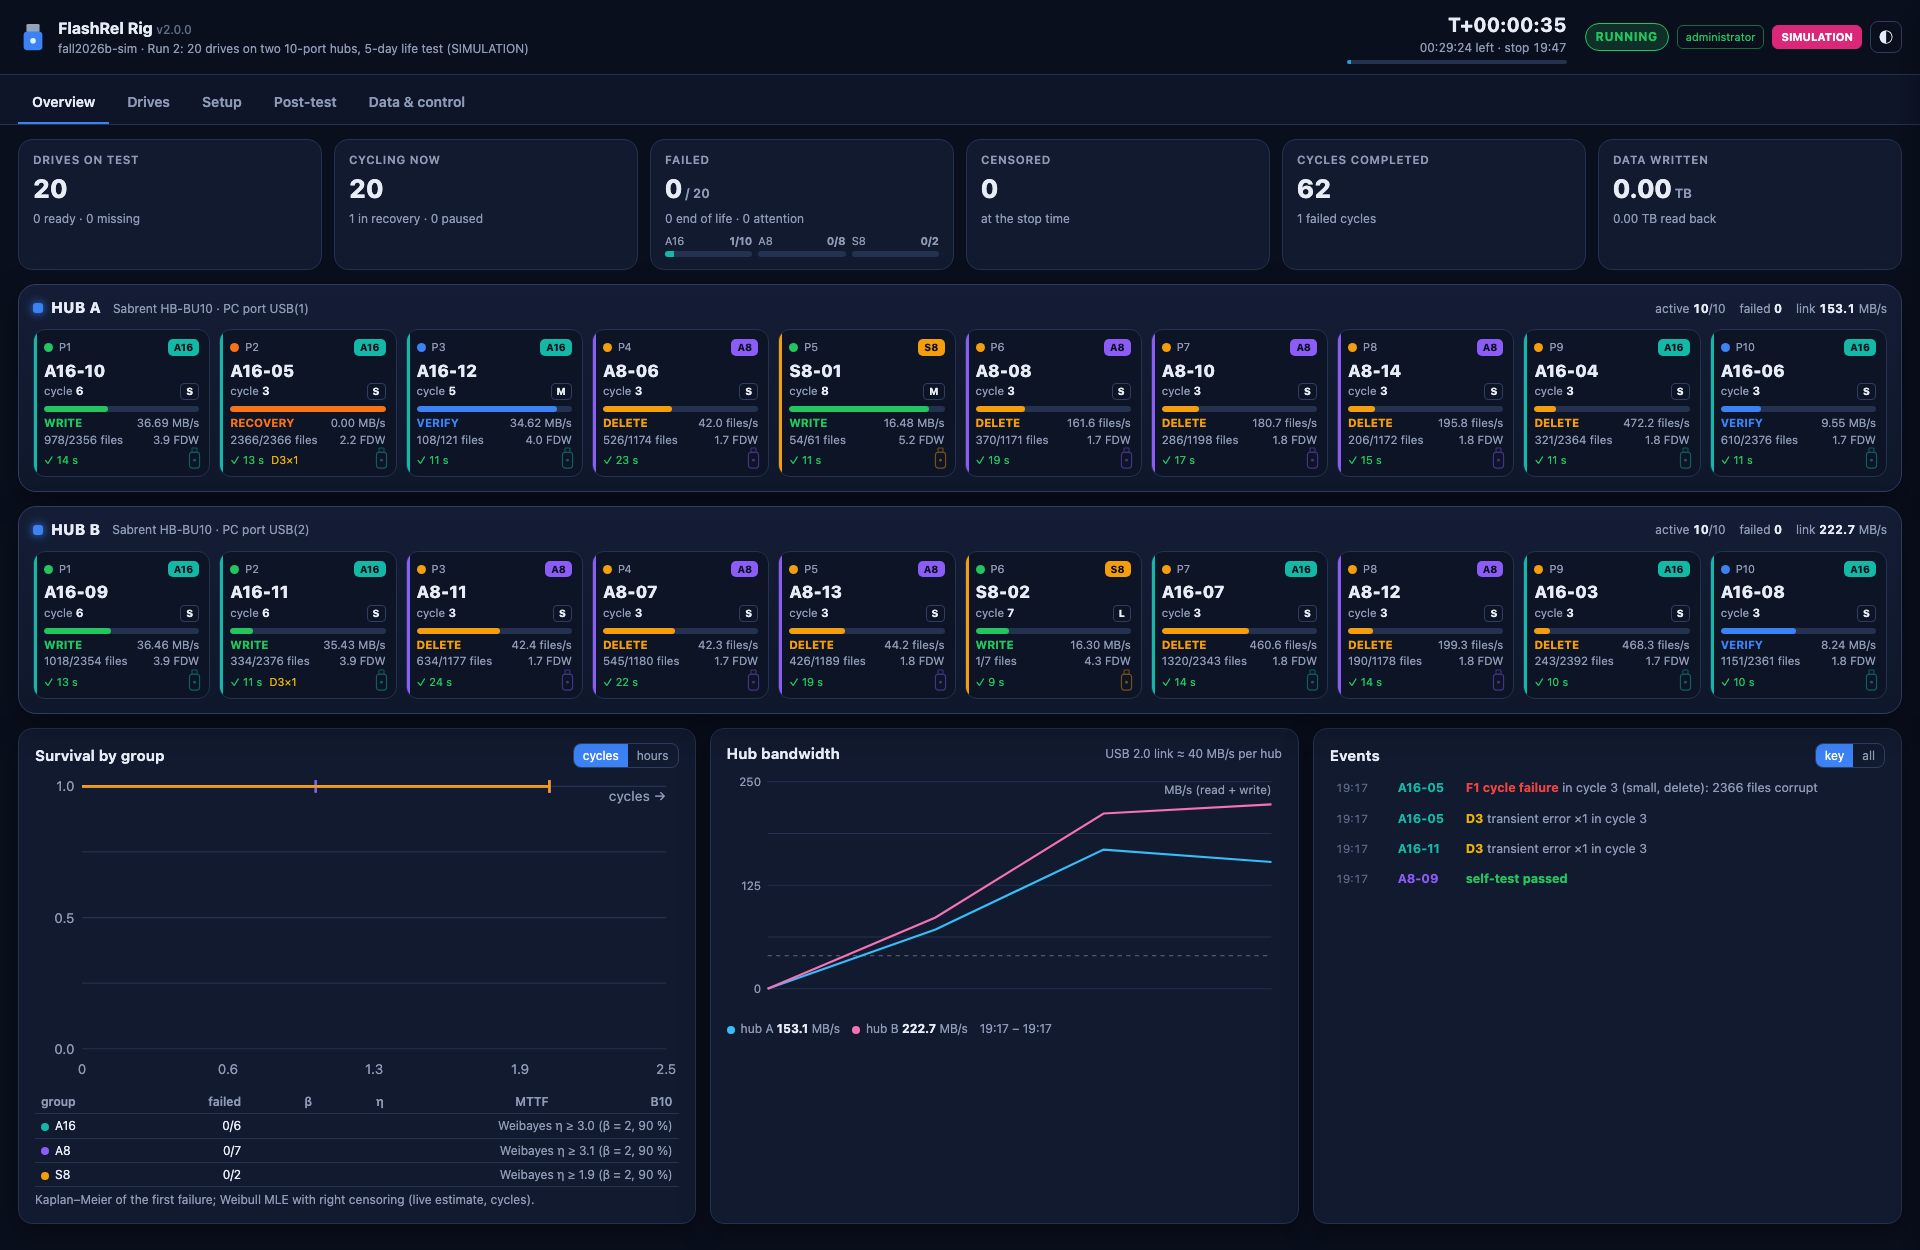
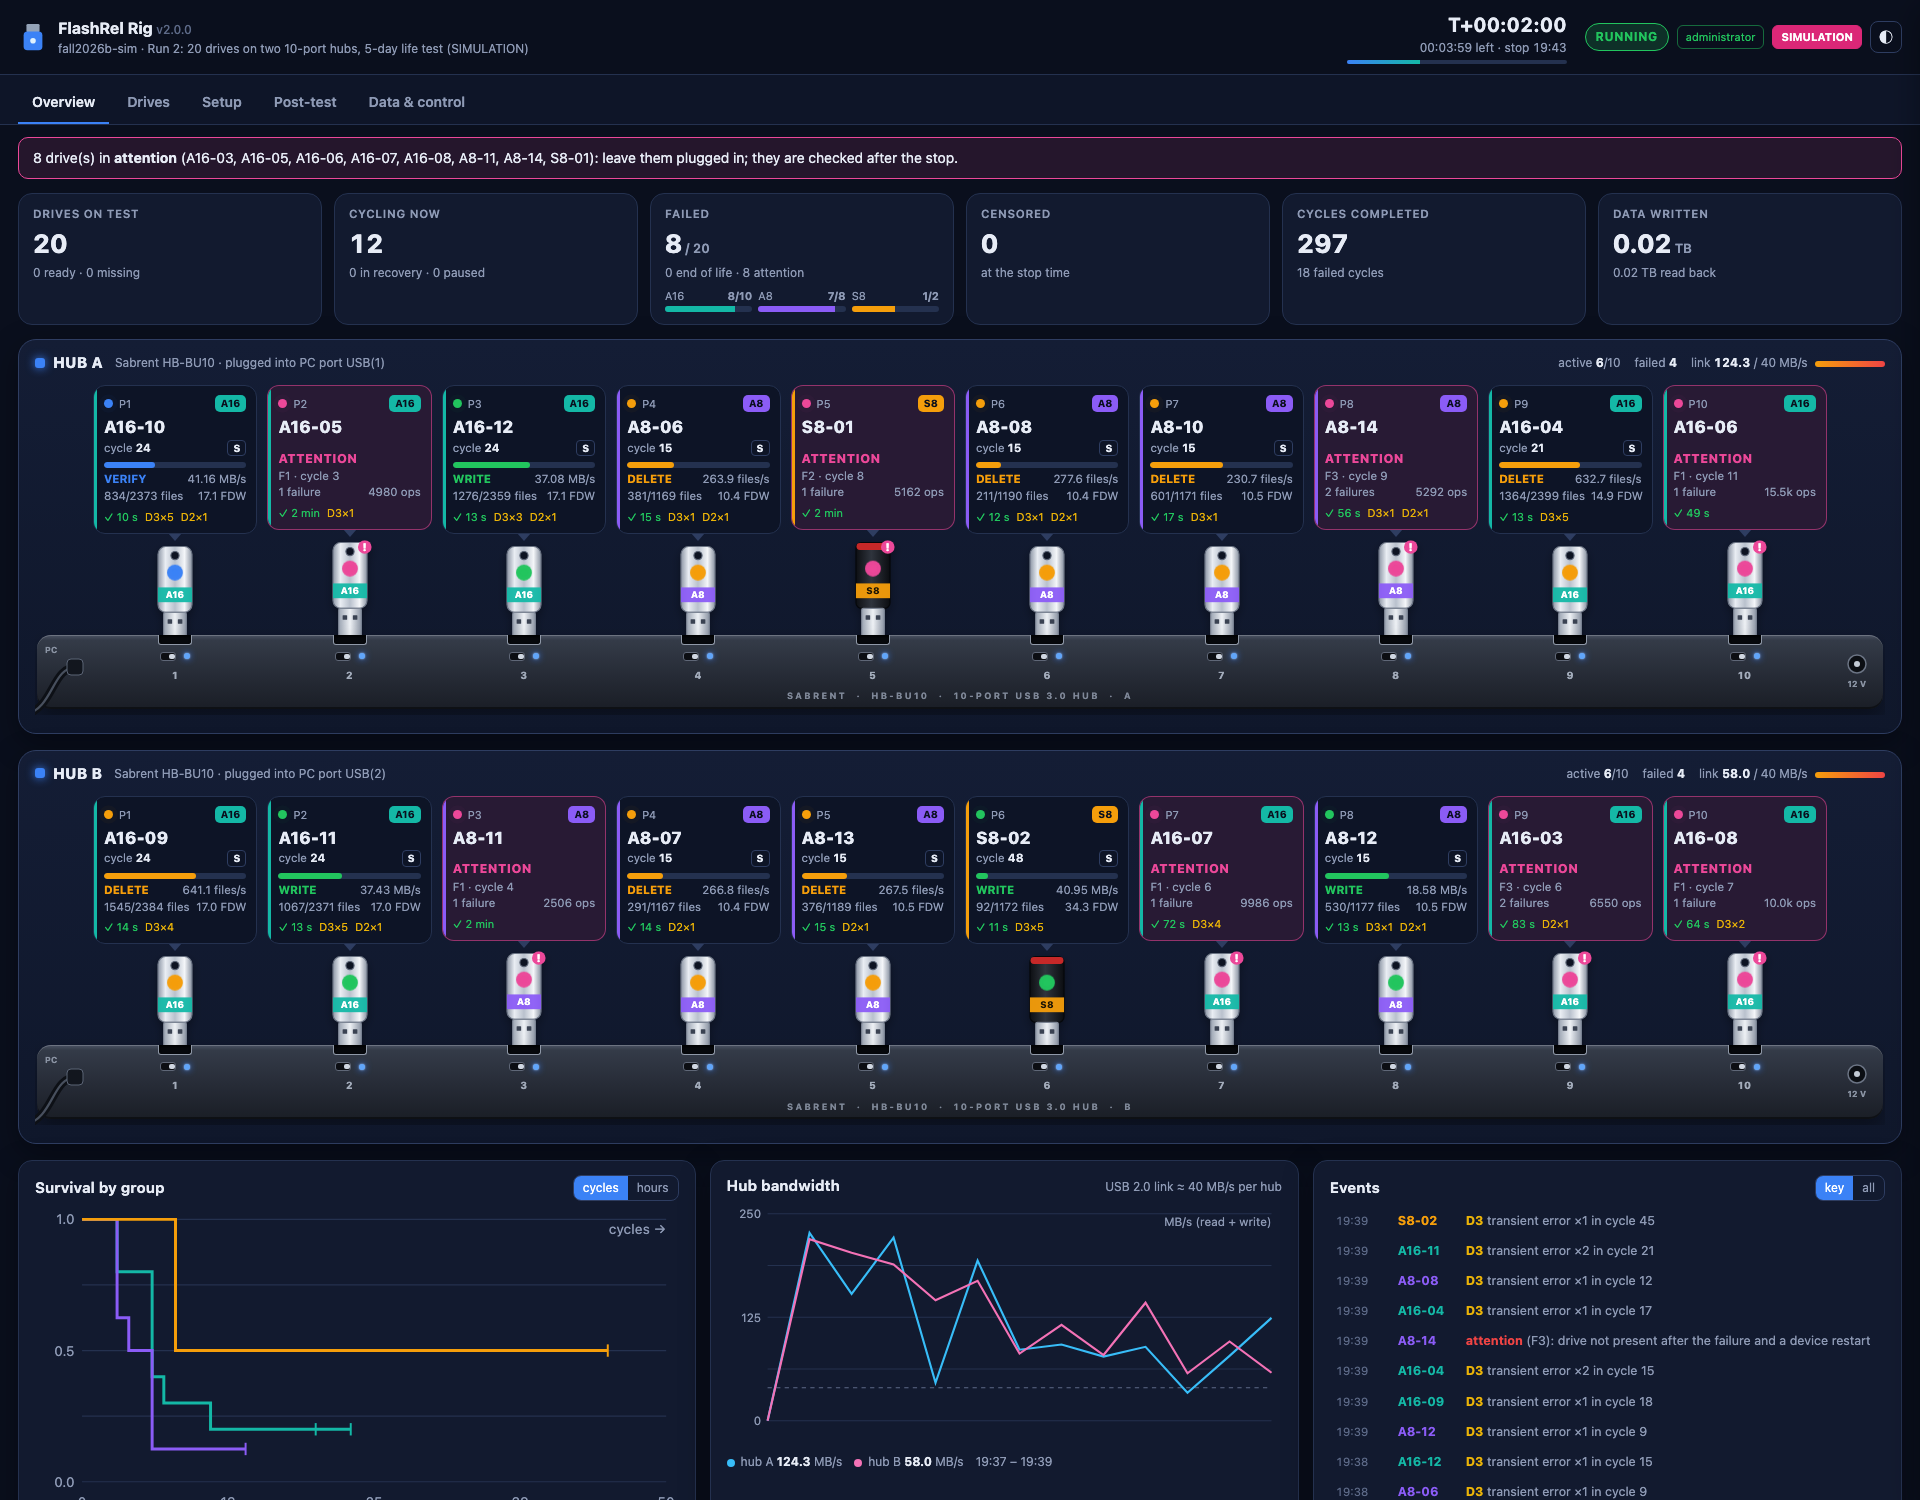
Draw the two hubs and their sticks on the dashboard; note the USB endpoint limit
- Each hub is drawn as the Sabrent HB-BU10: ten USB 3.0 ports with a switch and
  a power LED each, the cable to the PC and the 12 V jack. Every enrolled drive
  stands in its port as a stick (metal ABLAZE, black SanDisk, a band in the
  group colour) whose LED shows the phase; failed, attention, censored and
  missing drives look different. The drive's card sits above its stick.
- The hub header shows the load of its shared USB 2.0 link against 40 MB/s.
- Operator guide, package README and setup step 2: what to do when Windows
  reports "Not enough USB controller resources" with 20 drives and two hubs.

diff --git a/src/flashrel/web/app.js b/src/flashrel/web/app.js
@@ -107,8 +107,34 @@ function visual(d) {
   const ph = PHASE[d.phase] || ["var(--st-setup)", String(d.phase || "").toUpperCase()];
   return { cls: d.present === false ? "missing" : "", color: ph[0], label: ph[1], pulse: true };
 }
-function stickSvg(color) {
-  return `<svg class="stick" viewBox="0 0 18 30"><rect x="5.5" y="1" width="7" height="6" rx="1" fill="none" stroke="${color}" stroke-width="1.4"/><rect x="2" y="7" width="14" height="22" rx="4" fill="none" stroke="${color}" stroke-width="1.6"/><circle cx="9" cy="18" r="2" fill="${color}"/></svg>`;
+/* A USB stick plugged into its hub port: ABLAZE sticks are brushed metal, SanDisk ones black
+   plastic; the band carries the group colour and the LED the current phase. */
+function stickArt(d, v) {
+  if (!d || !d.enrolled) return `<div class="stickart empty" title="empty port"></div>`;
+  const final = ["failed", "attention", "censored"].includes(d.status);
+  const missing = d.present === false && !final;
+  let led = v.color, on = v.pulse && d.worker.running;
+  if (d.status === "failed") { led = "var(--st-failed)"; on = false; }
+  else if (d.status === "attention") { led = "var(--st-attn)"; on = true; }
+  else if (d.status === "censored") { led = "#334155"; on = false; }
+  else if (!d.worker.running) { led = "#64748b"; on = false; }
+  const gc = GCOL(d.group);
+  const body = d.group === "S8"
+    ? `<rect x="7" y="2" width="30" height="58" rx="5" fill="url(#fr-plastic)" stroke="#05070a"/><rect x="7.5" y="2.5" width="29" height="6" rx="3" fill="#c62828"/>`
+    : `<rect x="7" y="2" width="30" height="58" rx="7" fill="url(#fr-metal)" stroke="#6b7484"/><circle cx="22" cy="10" r="3.6" fill="#0d1322" stroke="#5c6576"/>`;
+  const cls = `stickart${missing ? " missing" : ""}${["failed", "censored"].includes(d.status) ? " dim" : ""}`;
+  return `<svg class="${cls}" viewBox="0 0 44 92" data-drive="${esc(d.id)}" role="img" aria-label="${esc(d.id)} stick">
+    ${body}
+    <rect x="7" y="38" width="30" height="13" fill="${gc}" opacity=".95"/>
+    <text x="22" y="47.6" text-anchor="middle" font-size="8.2" font-weight="800" fill="${d.group === "S8" ? "#1c1404" : "#fff"}">${esc(d.group)}</text>
+    <circle cx="22" cy="25" r="7" style="fill:${led}" opacity="${on ? 0.28 : 0}" class="${on ? "sled on" : ""}"/>
+    <circle cx="22" cy="25" r="3.6" style="fill:${led}" class="sled${on ? " on" : ""}"/>
+    <rect x="12" y="60" width="20" height="31" rx="1.5" fill="url(#fr-plug)" stroke="#7c8594"/>
+    <rect x="15.5" y="66" width="4" height="4" rx=".5" fill="#3a4252"/><rect x="24.5" y="66" width="4" height="4" rx=".5" fill="#3a4252"/>
+    ${d.status === "failed" ? `<path d="M13 16 L31 34 M31 16 L13 34" stroke="#ef4444" stroke-width="3.4" stroke-linecap="round"/>` : ""}
+    ${d.status === "attention" ? `<circle cx="35" cy="6" r="6" fill="#ec4899"/><text x="35" y="9.6" text-anchor="middle" font-size="9.5" font-weight="900" fill="#fff">!</text>` : ""}
+    ${missing ? `<rect x="4.5" y="0.5" width="35" height="62" rx="8" fill="none" stroke="#f97316" stroke-dasharray="4 3" stroke-width="1.6"/>` : ""}
+  </svg>`;
 }
 
 /* ---------- header and KPIs -------------------------------------------------------------- */
@@ -191,7 +217,28 @@ function portCard(slot) {
   if (d.present === false && d.enrolled && !["failed", "attention", "censored"].includes(d.status)) extra.push(`<span class="bad">missing</span>`);
   return `<div class="port ${v.cls}" style="--gc:${gc}" data-drive="${esc(d.id)}" title="${esc(d.id)} · click for details">
     <div class="row1"><span class="led ${v.pulse ? "pulse" : ""}" style="background:${v.color};--lc:${v.color}"></span>P${slot.port}<span class="chip">${esc(g)}</span></div>
-    <div class="id">${esc(d.id)}</div>${body}<div class="health">${sent}${extra.join("")}</div>${stickSvg(gc)}</div>`;
+    <div class="id">${esc(d.id)}</div>${body}<div class="health">${sent}${extra.join("")}</div></div>`;
+}
+
+/* The hub as a device: a dark metal bar with ten USB 3.0 ports, a switch and a blue LED per
+   port (as on the Sabrent HB-BU10), the cable to the PC on the left and the 12 V jack on the
+   right; the sticks stand in their ports and each drive's card sits right above its stick. */
+function hubBody(h, slots, keyTxt) {
+  const cable = `<svg viewBox="0 0 46 70" aria-hidden="true"><title>cable to the PC</title>
+    <path d="M40 30 C 14 30, 18 70, -12 78" fill="none" stroke="#0d1016" stroke-width="8" stroke-linecap="round"/>
+    <path d="M40 30 C 14 30, 18 70, -12 78" fill="none" stroke="#5b6475" stroke-width="2.2" stroke-linecap="round" opacity=".75"/>
+    <rect x="30" y="22" width="16" height="16" rx="4" fill="#12161e" stroke="#5b6475"/>
+    <text x="8" y="16" font-size="8.5" font-weight="700" fill="#8b94a4">PC</text></svg>`;
+  const jack = `<svg viewBox="0 0 46 70" aria-hidden="true"><circle cx="20" cy="27" r="9" fill="#0b0e13" stroke="#6b7484" stroke-width="1.5"/>
+    <circle cx="20" cy="27" r="3" fill="#c3cad5"/><text x="20" y="50" text-anchor="middle" font-size="8.5" font-weight="700" fill="#8b94a4">12 V</text></svg>`;
+  const bays = slots.map((s) => {
+    const d = S.drives[s.drive];
+    return `<div class="bay${d && d.enrolled ? " occ" : ""}"><div class="slot"><i></i></div>
+      <div class="ctrl"><span class="sw on" title="port switch: on"></span><span class="pled on" title="port power"></span></div>
+      <div class="num">${s.port}</div></div>`;
+  }).join("");
+  return `<div class="hubbody"><div class="endcap">${cable}</div>${bays}<div class="endcap">${jack}</div>
+    <div class="hubmark">SABRENT &nbsp;·&nbsp; HB-BU10 &nbsp;·&nbsp; 10-PORT USB 3.0 HUB &nbsp;·&nbsp; ${esc(h)}</div></div>`;
 }
 
 function renderHubs() {
@@ -204,14 +251,22 @@ function renderHubs() {
     const series = (S.hub_load || {})[h] || [];
     const mbps = series.length ? series[series.length - 1][1] : 0;
     const keys = (S.host.hub_keys || {})[h] || [];
-    const keyTxt = keys.length ? keys.map((k) => k.split("#").slice(-1)[0]).join(", ") : "PC port not recorded yet";
-    return `<div class="hub"><div class="hub-head"><div class="hub-name"><span class="plug"></span>HUB ${esc(h)}</div>
-      <div class="hub-meta">${esc(c.hub_model.split("(")[0])} · PC port ${esc(keyTxt)}</div>
-      <div class="hub-stats"><span>active <b>${active}</b>/10</span><span>failed <b>${failed}</b></span><span>link <b>${fmtNum(mbps, 1)}</b> MB/s</span></div></div>
-      <div class="ports">${slots.map(portCard).join("")}</div></div>`;
+    const keyTxt = keys.length ? keys.map((k) => k.split("#").slice(-1)[0]).join(", ") : "";
+    const cols = slots.map((s) => {
+      const d = S.drives[s.drive];
+      return `<div class="slotcol">${portCard(s)}<div class="tip"></div>${stickArt(d, d ? visual(d) : null)}</div>`;
+    }).join("");
+    return `<div class="hubviz"><div class="hub-head"><div class="hub-name"><span class="plug"></span>HUB ${esc(h)}</div>
+      <div class="hub-meta">${esc(c.hub_model.split("(")[0])}${keyTxt ? ` · plugged into PC port ${esc(keyTxt)}` : ""}</div>
+      <div class="hub-stats"><span>active <b>${active}</b>/10</span><span>failed <b>${failed}</b></span>
+        <span title="USB 2.0 link of the hub, shared by its 10 drives">link <b>${fmtNum(mbps, 1)}</b> / 40 MB/s
+        <span class="linkmeter${mbps > 40 ? " over" : ""}"><i style="width:${Math.min(100, (100 * mbps) / 40)}%"></i></span></span></div></div>
+      <div class="hubviz-scroll"><div class="hubviz-inner">
+        <div class="rack"><div></div>${cols}<div></div></div>${hubBody(h, slots, keyTxt)}
+      </div></div></div>`;
   }).join("");
   $("#hubs").innerHTML = html;
-  $$("#hubs .port[data-drive]").forEach((el) => (el.onclick = () => openDrawer(el.dataset.drive)));
+  $$("#hubs [data-drive]").forEach((el) => (el.onclick = () => openDrawer(el.dataset.drive)));
 }
 
 /* ---------- charts ------------------------------------------------------------------------ */
@@ -482,6 +537,7 @@ function renderSetup() {
       <li>Plug each hub's 12 V adapter in (one power strip), switch every port switch <b>on</b> and leave them on.</li>
       <li>Plug each hub's cable straight into a <b>rear</b> USB port of the PC (not the front panel, no extension, never one hub into the other). Use two ports far apart, ideally on different USB controllers.</li>
       <li>Keyboard and mouse stay on other PC ports. No test drive goes into the PC itself; the two spare drives stay unplugged except for the self-test and the post-test port checks.</li>
+      <li>If Windows says “Not enough USB controller resources” while you plug in drives, move hub B to a port on another USB controller (Device Manager → View → Devices by connection), or give it a PCIe USB 3.0 card.</li>
       <li>Stick a label with the drive ID on every stick, and number the hub ports 1–10.</li></ul>
       ${planGrid("A", nextId)}${planGrid("B", nextId)}<div class="small muted">Spares: ${spares.map(esc).join(", ")}</div>`)}
     ${step(3, selftest && selftest.passed ? "done" : nextSpare ? "now" : "", "Enroll a spare and run the self-test", `<p class="muted">Plug in spare <b>${esc(spares[0])}</b> (any hub port), enroll it below, then run the self-test (≈ 2 minutes). Do the same with <b>${esc(spares[1])}</b>, then unplug both spares and keep them for the post-test.</p>

diff --git a/src/flashrel/web/app.css b/src/flashrel/web/app.css
@@ -129,7 +129,48 @@ main { padding: 14px 18px 40px; }
 .port.missing { border-color: var(--st-recover); animation: blink 1.2s steps(2) infinite; }
 @keyframes blink { 50% { border-color: transparent; } }
 .port.empty { border-style: dashed; opacity: .6; cursor: default; }
-.stick { position: absolute; right: 8px; bottom: 7px; width: 13px; height: 22px; opacity: .45; }
+/* hub drawing: cards above sticks above a drawn Sabrent HB-BU10 ------------------------------ */
+.hubviz { background: var(--hub-grad); border: 1px solid var(--line2); border-radius: 18px; padding: 12px 16px 18px;
+  margin-bottom: 16px; box-shadow: var(--shadow); }
+.hubviz-scroll { overflow-x: auto; padding: 2px 2px 6px; }
+.hubviz-inner { min-width: 1180px; }
+.rack, .hubbody { display: grid; grid-template-columns: 46px repeat(10, minmax(0, 1fr)) 46px; column-gap: 10px; }
+.slotcol { display: flex; flex-direction: column; align-items: center; min-width: 0; }
+.slotcol .port { width: 100%; min-height: 128px; }
+.tip { width: 0; height: 0; border-left: 7px solid transparent; border-right: 7px solid transparent;
+  border-top: 8px solid var(--line2); margin-top: -1px; }
+.stickart { display: block; width: 50px; height: 105px; margin: 3px 0 -14px; position: relative; z-index: 1;
+  cursor: pointer; transition: transform .18s ease; filter: drop-shadow(0 4px 5px rgba(0,0,0,.35)); }
+.stickart:hover { transform: translateY(-4px); }
+.stickart.empty { cursor: default; filter: none; }
+.stickart.missing { transform: translateY(-18px); opacity: .5; }
+.stickart.dim { filter: grayscale(.85) brightness(.8) drop-shadow(0 4px 5px rgba(0,0,0,.35)); }
+.sled.on { animation: ledpulse 1.3s ease-in-out infinite; }
+@keyframes ledpulse { 0%, 100% { opacity: 1; } 50% { opacity: .2; } }
+.hubbody { position: relative; z-index: 2; height: 74px; border-radius: 14px;
+  background: linear-gradient(180deg, #4b5364 0%, #343b48 7%, #262b36 55%, #1a1e26 100%);
+  box-shadow: inset 0 1px 0 rgba(255,255,255,.2), inset 0 -2px 0 rgba(0,0,0,.45), 0 12px 20px rgba(0,0,0,.35); }
+.bay { display: flex; flex-direction: column; align-items: center; gap: 7px; }
+.bay .slot { width: 30px; height: 10px; background: #06080c; border: 1.5px solid #9099a8; border-top: none;
+  border-radius: 0 0 3px 3px; position: relative; box-shadow: inset 0 2px 3px rgba(0,0,0,.8); }
+.bay .slot i { position: absolute; left: 4px; right: 4px; top: 2px; height: 3px; background: #2563eb; border-radius: 1px; }
+.bay.occ .slot i { display: none; }
+.bay .ctrl { display: flex; align-items: center; gap: 8px; }
+.sw { width: 16px; height: 9px; border-radius: 3px; background: #0c0e13; border: 1px solid #5f6777; position: relative; }
+.sw::after { content: ""; position: absolute; top: 1px; left: 1px; width: 6px; height: 5px; border-radius: 2px; background: #cfd6e1; }
+.sw.on::after { left: 8px; }
+.pled { width: 6px; height: 6px; border-radius: 50%; background: #1e293b; }
+.pled.on { background: #60a5fa; box-shadow: 0 0 7px #3b82f6, 0 0 2px #bfdbfe; }
+.bay .num { font-size: 10px; font-weight: 800; color: #a3acbb; letter-spacing: .5px; }
+.endcap { display: flex; align-items: center; justify-content: center; }
+.endcap svg { width: 46px; height: 74px; overflow: visible; }
+.hubmark { position: absolute; left: 0; right: 0; bottom: 6px; text-align: center; font-size: 9px; letter-spacing: 2.2px;
+  color: #7f8898; font-weight: 700; pointer-events: none; }
+.bay .slot { width: 34px; }
+.linkmeter { display: inline-block; width: 70px; height: 6px; border-radius: 4px; background: var(--line); overflow: hidden;
+  vertical-align: middle; margin-left: 4px; }
+.linkmeter > i { display: block; height: 100%; background: linear-gradient(90deg, #38bdf8, #22c55e); }
+.linkmeter.over > i { background: linear-gradient(90deg, #f59e0b, #ef4444); }
 
 /* tables ------------------------------------------------------------------------------------ */
 .table-wrap { overflow-x: auto; }

diff --git a/src/flashrel/web/index.html b/src/flashrel/web/index.html
@@ -9,6 +9,23 @@
 <script>window.FLASHREL_TOKEN = "__TOKEN__";</script>
 </head>
 <body>
+<svg width="0" height="0" style="position:absolute" aria-hidden="true">
+  <defs>
+    <linearGradient id="fr-metal" x1="0" x2="1" y1="0" y2="0">
+      <stop offset="0" stop-color="#8d96a5"/><stop offset=".22" stop-color="#e9edf3"/>
+      <stop offset=".5" stop-color="#b9c1cd"/><stop offset=".78" stop-color="#f4f6f9"/><stop offset="1" stop-color="#8a93a2"/>
+    </linearGradient>
+    <linearGradient id="fr-plastic" x1="0" x2="1" y1="0" y2="0">
+      <stop offset="0" stop-color="#0d0f13"/><stop offset=".45" stop-color="#2f343d"/><stop offset="1" stop-color="#0b0d11"/>
+    </linearGradient>
+    <linearGradient id="fr-plug" x1="0" x2="1" y1="0" y2="0">
+      <stop offset="0" stop-color="#9aa3b1"/><stop offset=".5" stop-color="#eef1f5"/><stop offset="1" stop-color="#8c95a4"/>
+    </linearGradient>
+    <linearGradient id="fr-hubbody" x1="0" x2="0" y1="0" y2="1">
+      <stop offset="0" stop-color="#4a5262"/><stop offset=".08" stop-color="#323946"/><stop offset="1" stop-color="#191d25"/>
+    </linearGradient>
+  </defs>
+</svg>
 <header class="topbar">
   <div class="brand">
     <svg class="logo" viewBox="0 0 32 32" aria-hidden="true"><rect x="9" y="2" width="14" height="9" rx="1.5" class="logo-cap"/><rect x="6" y="10" width="20" height="20" rx="4" class="logo-body"/><circle cx="16" cy="20" r="3" class="logo-led"/></svg>

diff --git a/docs/operator_guide_zh.md b/docs/operator_guide_zh.md
@@ -94,6 +94,7 @@
 | 窗口提示 “did not report back” | 窗口里显示了 `data\controller.log` 最后几行，拍照发回来 |
 | 某个盘卡片闪橙色边框（missing） | 软件找不到这个盘；先别动，软件会等 2 分钟并自动处理。如果一个坞上 3 个以上同时消失，会当作拓展坞故障（不计入），等坞恢复后自动继续 |
 | 仪表盘打不开又必须停 | 双击 `Stop FlashRel.bat`；之后可以再用 Start 继续 |
+| 插到第十几个盘时 Windows 弹出“没有足够的 USB 控制器资源 / Not enough USB controller resources”，或某个盘插上没反应 | 一个 USB 控制器能管的“端点”数有上限（Intel 常见 96 个；每个 U 盘约 3 个，每个 10 口坞约 12 个）。把拓展坞 B 换到电脑上属于**另一个 USB 控制器**的口（设备管理器 → 查看 → “按连接列出设备”，看两个坞是否挂在不同的 “USB eXtensible Host Controller” 下）；还不行就加一块 PCIe USB 3.0 扩展卡（自带控制器）专门接一个坞 |
 | 盘符不够（超过 20 个盘时 Windows 可能分配完 D–Z） | 不影响测试，软件不靠盘符找盘（靠盘里的身份文件和 USB 序列号，读写都走卷的 GUID 路径） |
 | 杀毒软件拦截了 PowerShell 或 pnputil | 测试照常进行，只是 USB 位置/自动格式化/自动重启设备不可用；把 `C:\FlashRel-Rig` 加入杀毒软件的信任列表 |
 | 某个盘卡死不响应 | 软件 10 分钟没进度会判为 F3 hang 并自动做恢复流程；其他 19 个盘不受影响 |
